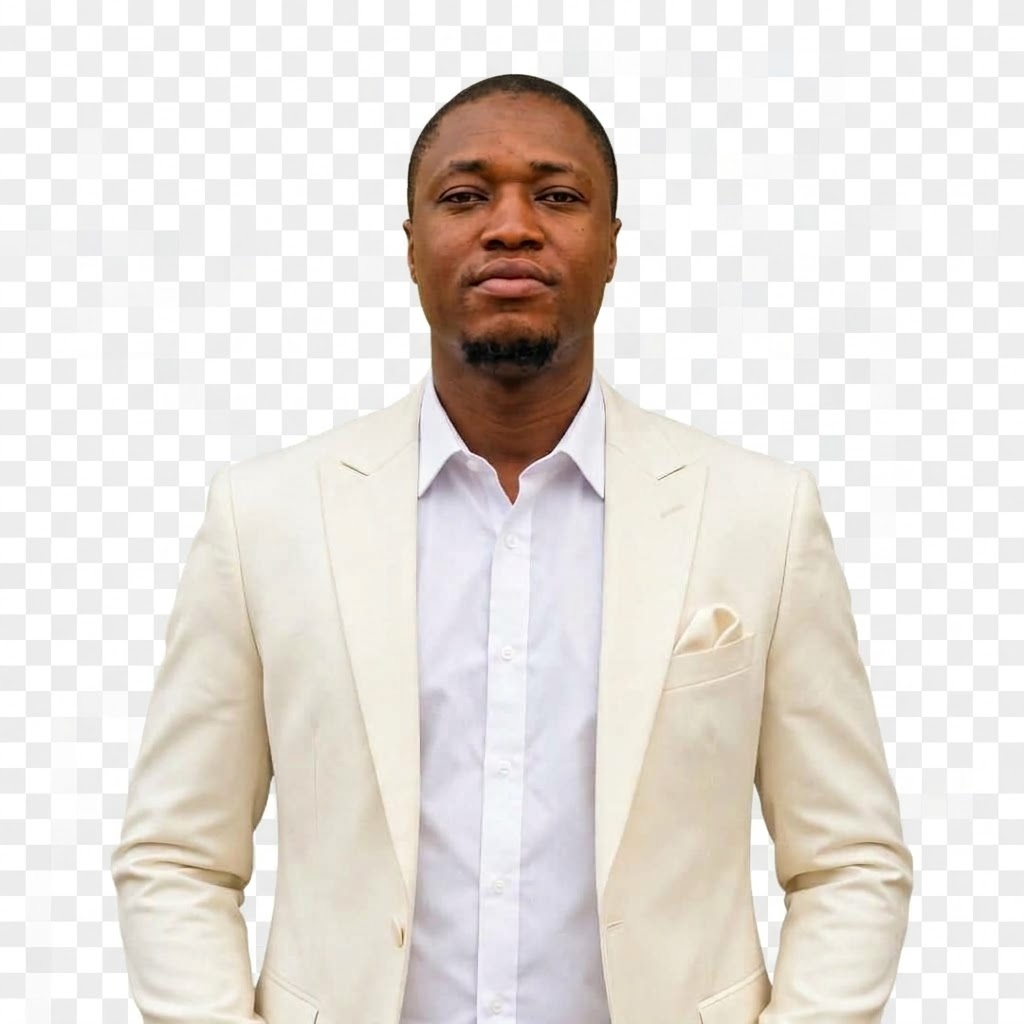
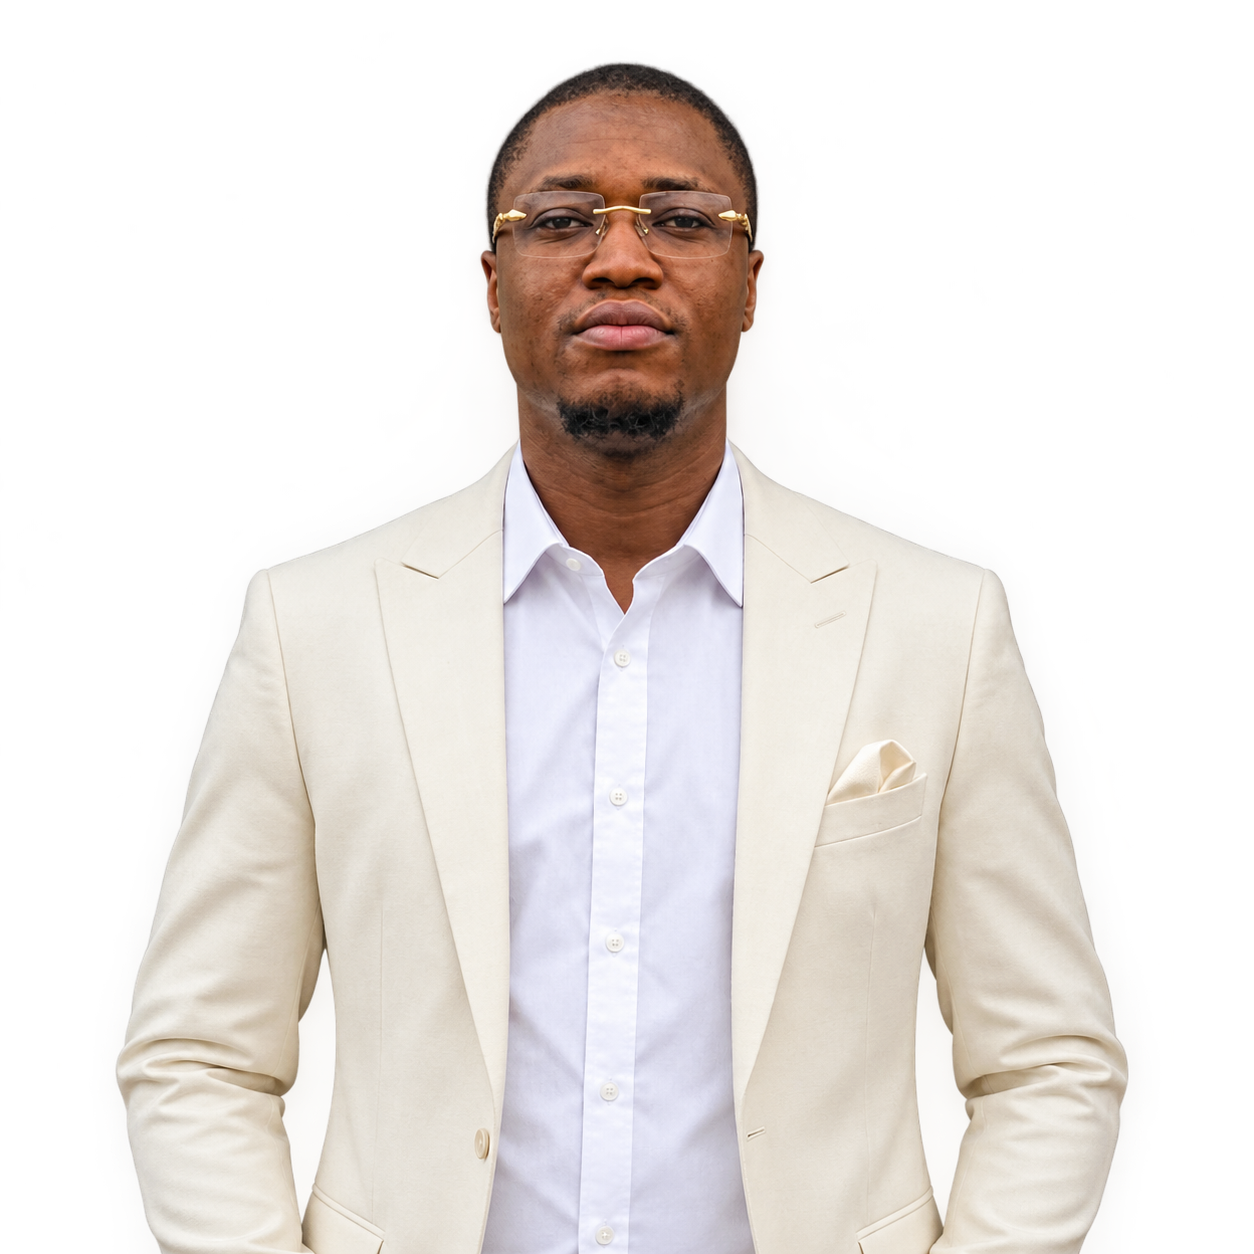
m

diff --git a/src/components/Hero/Hero.jsx b/src/components/Hero/Hero.jsx
@@ -1,7 +1,7 @@
 import { useLayoutEffect, useRef } from 'react'
 import { ArrowDown, ArrowUpRight } from 'lucide-react'
 import gsap from 'gsap'
-import heroImage from '../../assets/hero-transparent.png'
+import heroImage from '../../assets/hero-new.png'
 import './Hero.css'
 
 function Hero() {
